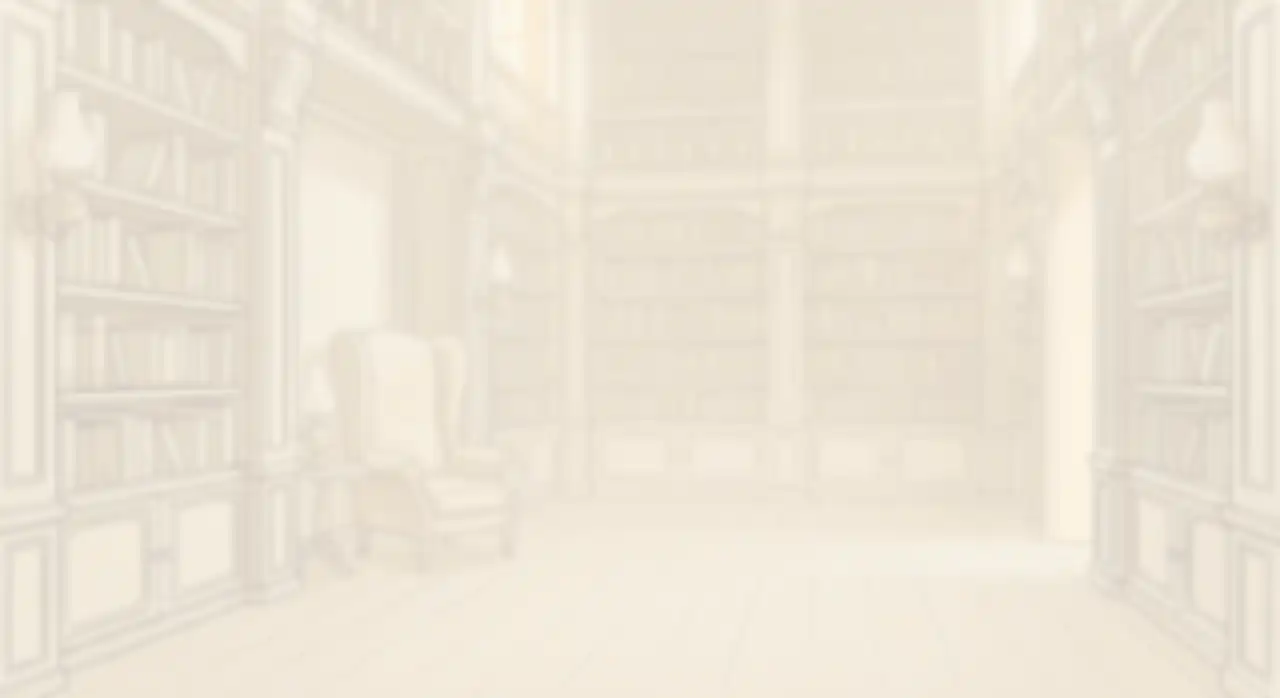
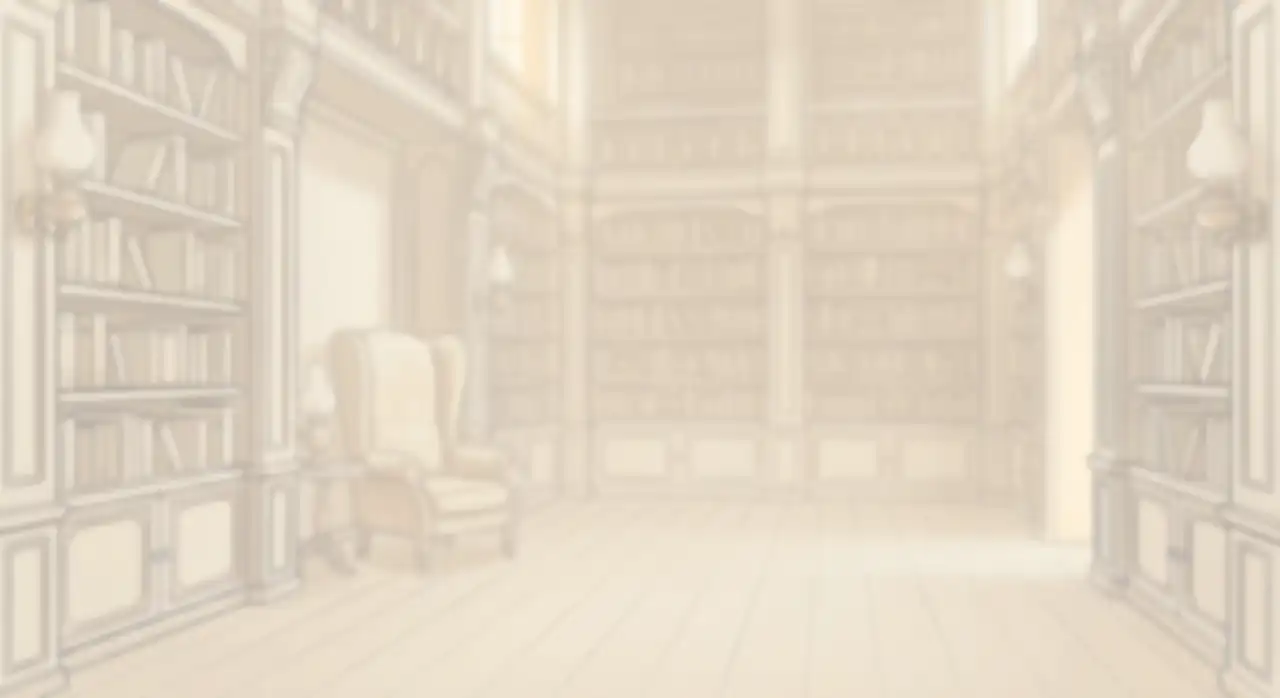
Show the day backdrop and the hero on sign-in and setup (#381)
The day backdrop is lightened by a fifth instead of 55 percent and the light panels are 74 percent; the worst-spot contrast is rechecked. The sign-in and setup pages take the hero by theme with the name as text.

Claude-Session: https://claude.ai/code/session_01AGsnpkotGjaUVbE34AkRAz

diff --git a/web/src/components/auth-page.tsx b/web/src/components/auth-page.tsx
@@ -1,8 +1,10 @@
 import type { ReactNode } from "react";
-import artwork from "@/assets/artwork.webp";
-import { t } from "@/i18n";
 
-/** The frame the setup and sign-in pages share: the artwork, a title, a form. */
+/**
+ * The frame the setup and sign-in pages share: the hero, the name as text, a
+ * title and a form on a panel. The art is decoration, so the name beside it
+ * is text, not part of the image.
+ */
 export function AuthPage({
 	title,
 	intro,
@@ -13,22 +15,28 @@ export function AuthPage({
 	children: ReactNode;
 }) {
 	return (
-		<main className="mx-auto flex min-h-dvh w-full max-w-sm flex-col justify-center gap-6 px-4 py-8">
-			{/* The artwork carries the name. Width and height are the file's own, so
-			    the browser keeps the space free before the image arrives. */}
-			<img
-				src={artwork}
-				width={640}
-				height={659}
-				alt={t("app.name")}
-				className="mx-auto h-auto w-48 rounded-2xl sm:w-64"
-				decoding="async"
-			/>
-			<div className="flex flex-col gap-2">
-				<h1 className="text-2xl font-semibold">{title}</h1>
-				{intro && <p className="text-slate-600 dark:text-slate-400">{intro}</p>}
+		<main className="mx-auto flex min-h-dvh w-full max-w-xl flex-col justify-center gap-4 px-4 py-8">
+			<div
+				className="hero-art relative h-40 overflow-hidden rounded-2xl border border-slate-200 sm:h-56 dark:border-slate-700"
+			>
+				<span className="panel absolute right-3 bottom-3 rounded-xl px-3 py-1 text-xl tracking-tight sm:top-1/2 sm:right-4 sm:bottom-auto sm:-translate-y-1/2 sm:px-5 sm:py-3 sm:text-3xl">
+					<span className="font-sans font-extrabold text-brand-strong dark:text-brand">
+						GO
+					</span>
+					<span className="font-serif font-semibold text-leather dark:text-cream">
+						tome
+					</span>
+				</span>
 			</div>
-			{children}
+			<div className="panel flex flex-col gap-6 rounded-2xl p-6">
+				<div className="flex flex-col gap-2">
+					<h1 className="text-2xl font-semibold">{title}</h1>
+					{intro && (
+						<p className="text-slate-600 dark:text-slate-400">{intro}</p>
+					)}
+				</div>
+				{children}
+			</div>
 		</main>
 	);
 }

diff --git a/web/src/app.test.tsx b/web/src/app.test.tsx
@@ -179,12 +179,15 @@ describe("a fresh installation", () => {
 		);
 	});
 
-	it("shows the artwork without shifting the page when it loads", async () => {
+	it("names the app as text beside the hero, in a frame of fixed height", async () => {
 		renderApp("/setup");
-		const artwork = await screen.findByRole("img", { name: "GOtome" });
-		// The size is reserved up front; without it the form would jump.
-		expect(artwork).toHaveAttribute("width", "640");
-		expect(artwork).toHaveAttribute("height", "659");
+		await screen.findByRole("heading", { name: /Welcome/ });
+		const name = await screen.findByText(
+			(_, el) => el?.tagName === "SPAN" && el.textContent === "GOtome",
+		);
+		// The art is a background of a box that has its height, so the form
+		// does not jump when it loads.
+		expect(name.closest(".hero-art")).toHaveClass("h-40");
 	});
 
 	it("sends the sign-in page to setup", async () => {

diff --git a/web/src/styles/index.css b/web/src/styles/index.css
@@ -100,7 +100,7 @@ body {
 	@media (min-width: 64rem) {
 		@supports (backdrop-filter: blur(1px)) {
 			@media (prefers-reduced-transparency: no-preference) {
-				@apply bg-white/82 dark:bg-slate-900/78;
+				@apply bg-white/74 dark:bg-slate-900/78;
 				backdrop-filter: blur(14px) saturate(120%);
 			}
 		}
@@ -206,5 +206,16 @@ h1 {
 	to {
 		opacity: 0.9;
 		transform: translate(var(--x), var(--y)) scale(1) rotate(160deg);
+	}
+}
+
+/* The home art of the sign-in and setup pages: the library by day or at
+   night. As a background it is the theme's only download. */
+.hero-art {
+	background-image: url("../assets/hero-light.webp");
+	background-size: cover;
+	background-position: left center;
+	@variant dark {
+		background-image: url("../assets/hero.webp");
 	}
 }

diff --git a/e2e/tests/first-run.setup.ts b/e2e/tests/first-run.setup.ts
@@ -26,7 +26,7 @@ test("the first account is created through the setup page", {
 	await expect(
 		page.getByRole("heading", { name: "Welcome to GOtome" }),
 	).toBeVisible();
-	await expect(page.getByRole("img", { name: "GOtome" })).toBeVisible();
+	await expect(page.locator("main").getByText("GOtome", { exact: true })).toBeVisible();
 
 	await page.getByLabel("User name").fill(ADMIN.username);
 	await page.getByLabel("Password").fill(ADMIN.password);

diff --git a/docs/design.md b/docs/design.md
@@ -99,9 +99,9 @@ it is used.
 The **backdrop** is an image in both themes (`web/src/assets/backdrop.webp`,
 the library at night, and `backdrop-light.webp`, the library by day, made by
 `web/scripts/branding.sh`): blurred a little, the night one dimmed to 80 %
-and given a faint ink veil and amber corners, the day one washed with
-parchment. It shows through the panels, which are glass on a desktop:
-the panel colour at **78 % (dark) or 82 % (light)** with
+and given a faint ink veil and amber corners, the day one lightened by a fifth
+toward parchment. It shows through the panels, which are glass on a desktop:
+the panel colour at **78 % (dark) or 74 % (light)** with
 `backdrop-filter: blur(14px) saturate(120%)`. Below 1024 px, where a blur
 under a page that scrolls the whole screen is redrawn every frame, and
 where the browser cannot blur (`@supports`) or the person asks for less
@@ -114,23 +114,23 @@ How the opacity was chosen: every pair is checked on the worst spot, not the
 average. Dark: the brightest pixel of the unblurred backdrop (rgb 210 186
 131, a lamp) under the ink veil and the strongest amber corner is rgb 158 134
 96; the panel over it is rgb 52 57 70. Light: the darkest pixel of the day
-backdrop (rgb 212 204 193) under the white panel is rgb 247 246 244. On those:
+backdrop (rgb 185 178 164) under the white panel is rgb 237 235 231. On those:
 
 | Dark pair on the panel | Ratio | Light pair on the panel | Ratio |
 |---|---|---|---|
-| slate-100 text | 9.5 | slate-900 text | 14.3 |
-| slate-300 | 6.1 | slate-600 muted | 5.6 |
-| slate-400 muted (and 500) | 5.2 | slate-500 | 5.1 |
-| cream (titles) | 7.1 | brand-strong | 5.2 |
-| brand cyan | 5.3 | candle-strong | 6.1 |
-| candle amber | 5.0 | gold-strong | 5.9 |
+| slate-100 text | 9.5 | slate-900 text | 13.0 |
+| slate-300 | 6.1 | slate-600 muted | 5.0 |
+| slate-400 muted (and 500) | 5.2 | slate-500 | 4.6 |
+| cream (titles) | 7.1 | brand-strong | 4.7 |
+| brand cyan | 5.3 | candle-strong | 5.5 |
+| candle amber | 5.0 | gold-strong | 5.3 |
 
 A card (slate-800 at 60 %) on that panel gives 5.2 for slate-400 and 9.5 for
 slate-100. The **boundary of a control** (field, select, outline button; WCAG
 1.4.11, 3:1) is its own token, `--control-border` (`styles/index.css`, which
 takes the place of the neutral steps 300 and 600 on any `border-slate-300` and
-`dark:border-slate-600`): `#8a7a5e` in the light theme, 3.9:1 on the worst
-panel and 4.2:1 on a white field; `#7a8aa3` in the dark one, 3.3:1 on the
+`dark:border-slate-600`): `#8a7a5e` in the light theme, 3.5:1 on the worst
+panel and 4.9:1 on a white field; `#7a8aa3` in the dark one, 3.3:1 on the
 worst panel and 4.4:1 on the field's navy. Card and panel hairlines stay
 subtle, as they are decoration. Native checkboxes and radios are drawn by
 the browser in the page's `color-scheme`. The focus ring (brand-strong
@@ -244,10 +244,9 @@ The parts are in `web/src/components/ui.tsx` (`button`, `control`, `panel`,
   read.
 - **Dialogs** (`components/dialog.tsx`) and popovers (notifications, the
   account menu) are panels with a shadow.
-- **Home page** (#380): a hero banner, then Recent additions and
-  Recommended for you as rows of cover cards (a scrolling row on a phone).
-  The hero is art: it carries the page's h1 as text beside it, not inside
-  the image.
+- **Sign-in and setup**: the hero (night or day by theme) in a rounded
+  frame, the name as text in a panel at its right, then the form on a panel.
+  The art is decoration; on a phone it shows the gopher only.
 
 ## Where the art is used (#381)
 
@@ -262,7 +261,7 @@ The parts are in `web/src/components/ui.tsx` (`button`, `control`, `panel`,
 | `gopher-reading` | The loading placeholder of a whole page |
 | `gopher-cheer` | The toast when a book is marked finished (`Celebration`), with stars |
 | `badge-ebook`, `-audio`, `-both` | The medium on a cover (`MediumBadge`) |
-| `hero`, `hero-light` | The home page (#380) |
+| `hero`, `hero-light` | The sign-in and setup pages, behind the name as text |
 
 ## Rules for every page
 

diff --git a/assets/branding/README.md b/assets/branding/README.md
@@ -6,7 +6,7 @@ binary `gotome`, the Go module path, `GOTOME_*` variables, the repository URL.
 | File | Size | Use |
 |---|---|---|
 | `banner.jpg` | 1024 × 1024 | Top of the repository README |
-| `artwork.jpg` | 1024 × 1054 | Illustration for the web app's login and setup pages |
+| `artwork.jpg` | 1024 × 1054 | Earlier illustration for the login and setup pages; the hero replaced it there |
 | `logo.jpg` | 1024 × 1051 | Logo with wordmark |
 | `icon.png` | 800 × 800 | The logo's mark alone, square; source for the favicon and app icons |
 | `hero.jpg`, `hero-light.jpg` | 1584 × 672 | Home page hero, night and day (gopher at the left, calm space at the right) |

diff --git a/CHANGELOG.md b/CHANGELOG.md
@@ -24,7 +24,8 @@ What changes for someone who runs or uses GOtome. The format follows
   medium badges on covers are the new round badges, and covers lift with a
   soft glow under the pointer in the dark theme. Nothing moves with
   "reduce motion" set; panels are opaque with "reduce transparency" and on
-  phones.
+  phones. The sign-in and setup pages open with the gopher reading in its
+  library, by night or by day with the colours.
 
 ## [0.11.0] - 2026-11-09
 
